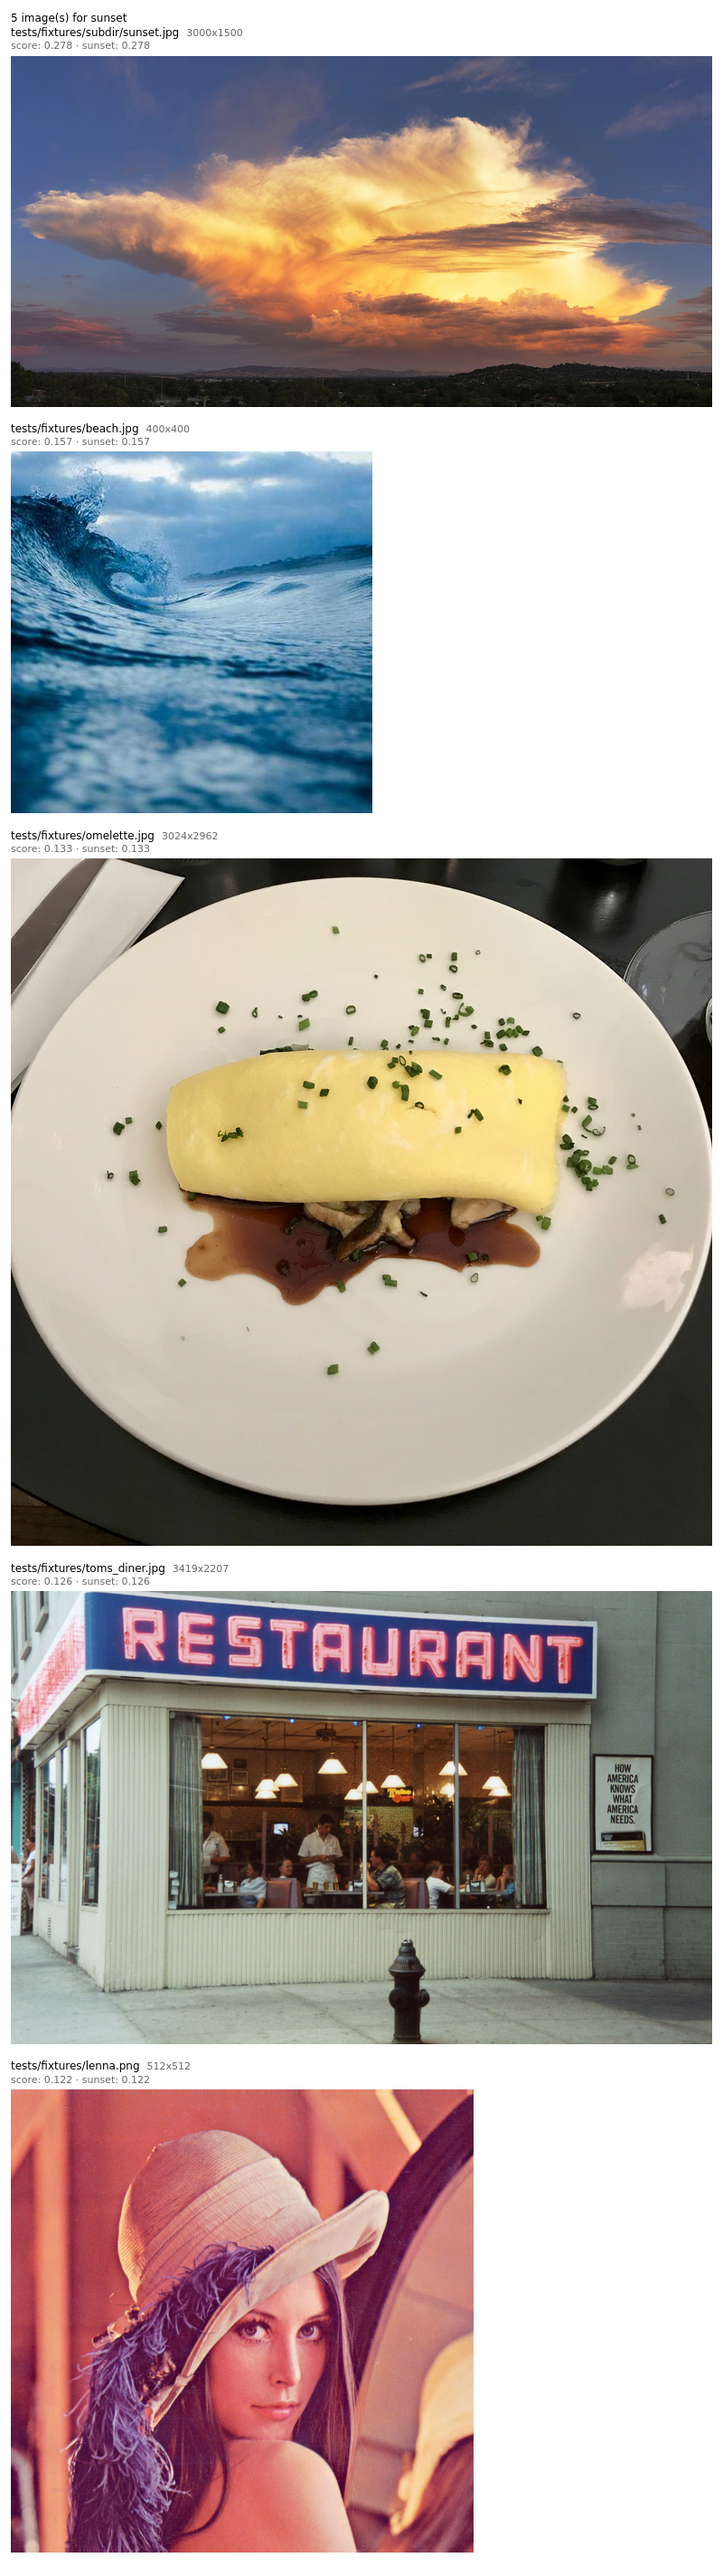
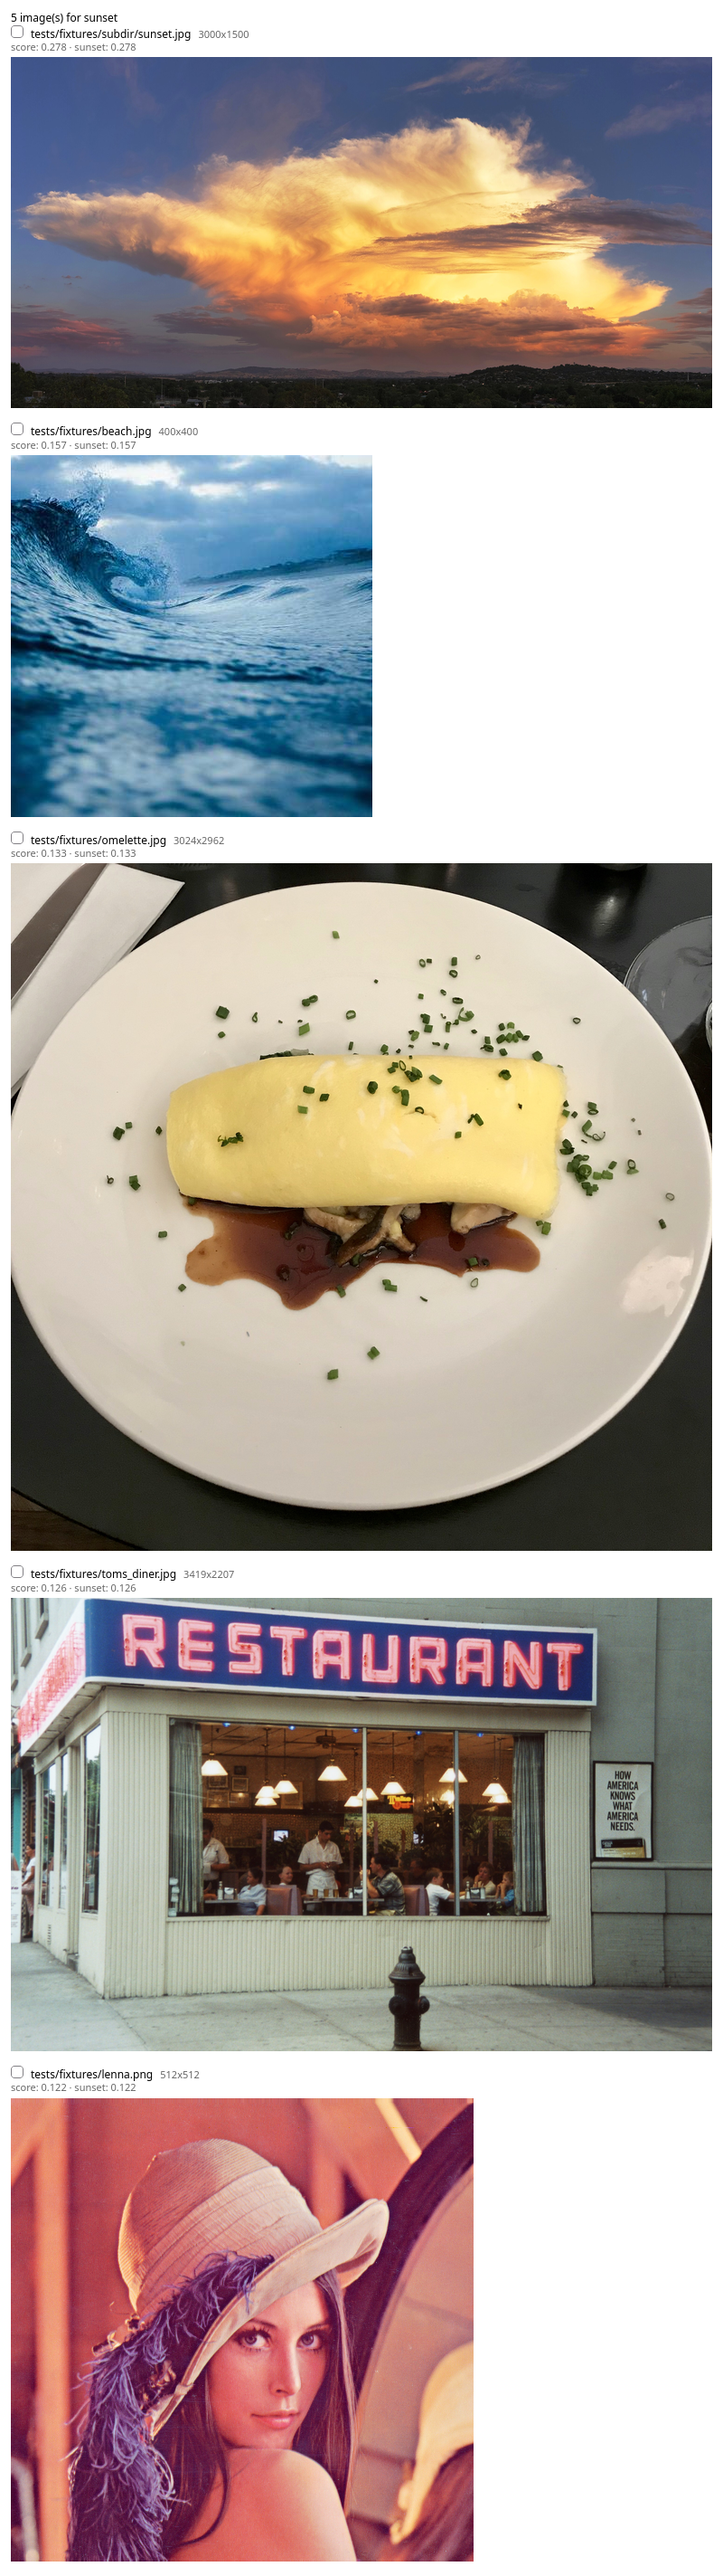
view: select images in the window; print their paths on close
--view showed results and printed nothing, so acting on what you found
there (deleting the blurry ones, copying some to a folder) meant
retyping paths by hand.

Click an image, or its new checkbox, to select it. The page reports the
selection to grape through pywebview's js_api as it changes, and when
the window closes grape prints the selected paths to stdout in the same
format as normal results: shell-quoted lines, or raw NUL-terminated with
-print0, which --view no longer rejects. What to do with them is up to
the pipeline:

    grape -R -print0 --keywords blurry --view ~/Pictures | xargs -0 rm --

With nothing selected the output is empty, as before.

Docs: regenerated the --view screenshot for the checkboxes.

diff --git a/grape/cli.py b/grape/cli.py
@@ -85,18 +85,40 @@ _HTML_TEMPLATE_TEXT = """
     }
     /* max-height: 100vh: never taller than one viewport. */
     img { display: block; max-width: 100%; max-height: 100vh; margin-bottom: 16px; }
+    /* Click an image (or its checkbox) to select it; grape prints the
+       selected paths when the window closes. */
+    .result img { cursor: pointer; }
+    .result.selected img { outline: 4px solid #2a7ae2; outline-offset: -4px; }
+    .pick { margin: 0; }
   </style>
 </head>
 <body>
   <p class="meta">{{ count }} image(s) for {{ keywords }}</p>
   {% for row in rows %}
+  <div class="result" data-path="{{ row.path_text }}">
   <p class="meta path-line">
+    <input type="checkbox" class="pick" aria-label="select">
     <span class="path" title="{{ row.path_text }}">{{ row.path_text }}</span>
     {% if row.resolution %}<span class="res">{{ row.resolution }}</span>{% endif %}
   </p>
   <p class="meta scoreline" title="{{ row.score_line }}">{{ row.score_line }}</p>
   <img src="{{ row.image_src }}" alt="{{ row.path_text }}">
+  </div>
   {% endfor %}
+  <script>
+    // Click an image or its checkbox to (de)select it. The selection is
+    // sent to grape (window.pywebview.api), which prints it on close.
+    document.addEventListener("click", (e) => {
+      const result = e.target.closest(".result");
+      if (!result || !e.target.matches("img, .pick")) return;
+      const box = result.querySelector(".pick");
+      if (e.target.tagName === "IMG") box.checked = !box.checked;
+      result.classList.toggle("selected", box.checked);
+      const paths = [...document.querySelectorAll(".result.selected")]
+        .map((r) => r.dataset.path);
+      if (window.pywebview) window.pywebview.api.set_selected(paths);
+    });
+  </script>
 </body>
 </html>
 """.strip()
@@ -791,7 +813,8 @@ def _emit(
             ranking, keywords, exclude_keywords, like_paths,
         )
         html_doc = _format_html(results, display_keywords)
-        _show_in_webview(html_doc)
+        for path in _show_in_webview(html_doc):
+            sys.stdout.write(_path_record(path, print0))
         return len(results)
     if show_scores:
         results = _scored_images(
@@ -962,8 +985,23 @@ def _format_html(
     return result
 
 
-def _show_in_webview(html_doc: str) -> None:
-    """Display HTML in a native webview window."""
+class _SelectionApi:
+    """Exposed to the --view page as ``window.pywebview.api``."""
+
+    def __init__(self) -> None:
+        self._paths: list[str] = []
+
+    def set_selected(self, paths: list[str]) -> None:
+        self._paths = list(paths)
+
+
+def _show_in_webview(html_doc: str) -> list[str]:
+    """Display HTML in a native webview window; return the selected paths.
+
+    Blocks until the window is closed. The page reports its selection
+    (clicked images) to a _SelectionApi as it changes.
+    """
+    api = _SelectionApi()
     webview = _get_webview()
     with tempfile.TemporaryDirectory(prefix="grape-view-") as tmpdir:
         html_path = Path(tmpdir) / "index.html"
@@ -982,8 +1020,10 @@ def _show_in_webview(html_doc: str) -> None:
             text_select=True,
             zoomable=True,
             min_size=(480, 320),
+            js_api=api,
         )
         webview.start(debug=True)
+    return api._paths
 
 
 def _format_query_summary(
@@ -1109,23 +1149,24 @@ def _build_parser() -> argparse.ArgumentParser:
         action="store_true",
         help="suppress progress messages on stderr",
     )
-    output_group = parser.add_mutually_exclusive_group()
-    output_group.add_argument(
+    parser.add_argument(
         "-print0",
         action="store_true",
         help="NUL after each path instead of newline; paths unquoted"
-             " (works with -s/-v like grep -Z)",
+             " (works with -s/-v like grep -Z, and with --view)",
     )
     _has_view_deps = (
         importlib.util.find_spec("webview") is not None
         and importlib.util.find_spec("jinja2") is not None
     )
     if _has_view_deps:
-        output_group.add_argument(
+        parser.add_argument(
             "--view",
             action="store_true",
             help="open results in a graphical window"
-                 " (HTML grid with thumbnails)",
+                 " (HTML grid with thumbnails); click images to select"
+                 " them, and their paths are printed when the window"
+                 " closes",
         )
 
     # -- Configuration -------------------------------------------------------

diff --git a/tests/test_cli.py b/tests/test_cli.py
@@ -334,7 +334,7 @@ def test_show_in_webview_calls_create_window_and_start(monkeypatch):
 
     fake_webview = FakeWebview()
     monkeypatch.setattr("grape.cli._get_webview", lambda: fake_webview)
-    _show_in_webview("<html>ok</html>")
+    assert _show_in_webview("<html>ok</html>") == []
     assert calls[0][0] == "create"
     assert calls[0][1] == ("grape results",)
     assert "url" in calls[0][2]
@@ -437,12 +437,22 @@ def test_cached_run_draws_no_progress_bar(tmp_path, monkeypatch):
     assert "Encoding" not in err
 
 
-def test_view_rejects_print0(monkeypatch):
-    _, err, code = run_main(["--view", "-print0", "-k", "dog", "x.jpg"], monkeypatch)
-    assert code != 0
-    assert "not allowed with argument" in err
-    assert "--view" in err
-    assert "-print0" in err
+@pytest.mark.parametrize("print0", [False, True])
+def test_view_prints_selected_paths_on_close(tmp_path, monkeypatch, print0):
+    """--view prints the images clicked in the window, in the same format
+    as normal results: shell-quoted lines, or raw with -print0."""
+    image_path = tmp_path / "my photo.jpg"
+    Image.new("RGB", (1, 1)).save(image_path)
+    _stub_pipeline(monkeypatch)
+    selected = [str(image_path), "it's.jpg"]
+    monkeypatch.setattr("grape.cli._show_in_webview", lambda _html: selected)
+    args = ["-q", "--view", "-k", "dog", str(image_path)]
+    out, _, code = run_main(args + (["-print0"] if print0 else []), monkeypatch)
+    assert code == 0
+    if print0:
+        assert out == f"{image_path}\0it's.jpg\0"
+    else:
+        assert out == f"{shlex.quote(str(image_path))}\n'it'\"'\"'s.jpg'\n"
 
 
 def test_module_entry_point_flushes_before_fast_exit(tmp_path):
@@ -1085,7 +1095,12 @@ def test_view_calls_webview_with_html(tmp_path, monkeypatch):
     Image.new("RGB", (1, 1)).save(image_path)
     _stub_pipeline(monkeypatch)
     captured: list[str] = []
-    monkeypatch.setattr("grape.cli._show_in_webview", captured.append)
+
+    def _show(html_doc):
+        captured.append(html_doc)
+        return []  # nothing selected
+
+    monkeypatch.setattr("grape.cli._show_in_webview", _show)
     out, _, code = run_main(["-q", "--view", "-k", "dog", str(image_path)], monkeypatch)
     assert code == 0
     assert out == ""
@@ -2023,3 +2038,34 @@ def test_e2e_like_caches_reference(tmp_path, monkeypatch):
     out2, _, code = run_main(args, monkeypatch)
     assert code == 0
     assert out2 == out
+
+
+def test_show_in_webview_returns_selection_reported_by_page(monkeypatch):
+    """The page calls js_api.set_selected as clicks change the selection;
+    whatever it last reported is returned once the window closes."""
+    class FakeWebview:
+        settings: dict = {}
+
+        def create_window(self, *args, **kwargs):
+            self.api = kwargs["js_api"]
+
+        def start(self, **kwargs):  # the user clicks, then closes
+            self.api.set_selected(["a.jpg", "b.jpg"])
+            self.api.set_selected(["b.jpg"])
+
+    monkeypatch.setattr("grape.cli._get_webview", FakeWebview)
+    assert _show_in_webview("<html>ok</html>") == ["b.jpg"]
+
+
+def test_format_html_marks_each_result_selectable(tmp_path):
+    """Each result carries its path for the selection script, escaped."""
+    image_path = tmp_path / 'say "cheese".jpg'
+    Image.new("RGB", (1, 1)).save(image_path)
+    results = [ScoredImage(path=str(image_path), scores={"dog": 0.5}, score=0.5)]
+
+    html_doc = _format_html(results, ["dog"])
+
+    assert html_doc.count('class="result"') == 1
+    assert html_doc.count('class="pick"') == 1
+    assert f'data-path="{str(image_path).replace(chr(34), "&#34;")}"' in html_doc
+    assert "window.pywebview.api.set_selected" in html_doc

diff --git a/tests/test_view.py b/tests/test_view.py
@@ -229,3 +229,31 @@ def test_long_path_stays_single_line(tmp_path, browser_page):
     assert info["scroll"] > info["client"], (
         "expected horizontal overflow so ellipsis activates"
     )
+
+
+def test_click_toggles_selection_and_reports_it(tmp_path, browser_page):
+    """Clicking an image or its checkbox (de)selects it, and every change
+    reports the selected paths, in page order, to window.pywebview.api."""
+    paths = []
+    for name, color in (("a.jpg", (255, 0, 0)), ("b.jpg", (0, 0, 255))):
+        _make_test_image(tmp_path / name, color)
+        paths.append(str(tmp_path / name))
+    results = [
+        ScoredImage(path=p, scores={"x": 0.5}, score=0.5) for p in paths
+    ]
+    _render(browser_page, _format_html(results, ["x"]), tmp_path)
+    browser_page.evaluate(
+        "window.reports = [];"
+        " window.pywebview = {api: {set_selected: (p) => window.reports.push(p)}};"
+    )
+
+    imgs = browser_page.locator(".result img")
+    imgs.nth(1).click()
+    browser_page.locator(".result .pick").nth(0).click()
+    imgs.nth(1).click()
+
+    assert browser_page.evaluate("window.reports") == [
+        [paths[1]], [paths[0], paths[1]], [paths[0]],
+    ]
+    assert browser_page.locator(".result.selected").count() == 1
+    assert browser_page.locator(".result .pick").nth(0).is_checked()

diff --git a/CHANGELOG.md b/CHANGELOG.md
@@ -7,6 +7,9 @@ and this project adheres to [Semantic Versioning](https://semver.org/spec/v2.0.0
 
 ## [Unreleased]
 
+### Added
+- `--view` lets you select images: click an image (or its checkbox) to select it, and when you close the window grape prints the selected paths, in the same format as normal output (shell-quoted lines, or raw with `-print0`). Pipe them to `rm`, `cp`, a file, or anything else. `--view` and `-print0` can now be combined.
+
 ### Fixed
 - A truncated animated GIF/WEBP/APNG that passes the scan no longer crashes the run with Pillow's `IndexError`/`struct.error`; it is skipped and recorded as not an image like other unreadable files.
 - `-print0` now composes with `-s`/`-v` like grep's `-Z`: the path is unquoted and NUL-terminated; the score before it and the `-v` breakdown line after it are unchanged. Previously the flag was silently ignored with `-s`/`-v`.

diff --git a/README.md b/README.md
@@ -48,6 +48,9 @@ grape -R -s -n 5 -t 0.25 --keywords sunset ~/Pictures
 # browse results in a GUI window
 grape -R --keywords sunset --view ~/Pictures
 
+# pick images in the window (click to select); their paths print on close
+grape -R -print0 --keywords blurry --view ~/Pictures | xargs -0 rm --
+
 # aesthetic ranking (skip default templating -- prompts are already full sentences)
 grape -R -n 20 --ensemble-prompts '{}' --keywords 'beautiful photo' --exclude 'ugly photo' ~/Pictures
 
